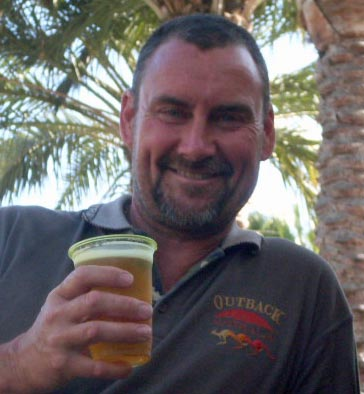
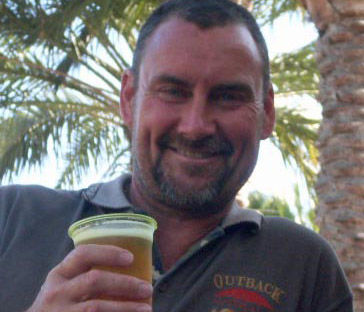
adjust new pages

diff --git a/AM-flask/app/templates/roy_page.html b/AM-flask/app/templates/roy_page.html
@@ -2,10 +2,11 @@
 
 
 <div class="container">
-    <div class="row row-margin">
-        <div class="col-lg-12">
-            <img id="alis" src="../static/img/user/roy/Trevor.jpg" alt="Trevor Photo" class="img-thumbnail">
-        </div>
+    <div class="row row-margin" id="roy">
+
+            <div class="center">
+                <img id="alis" src="../static/img/user/roy/Trevor.jpg" alt="Trevor Photo" class="img-thumbnail img-responsive">
+            </div>
     </div>
 
     <div id="mask"></div>

diff --git a/AM-flask/app/templates/ollio_page.html b/AM-flask/app/templates/ollio_page.html
@@ -2,7 +2,7 @@
 
 
 <div class="container">
-    <div class="row row-margin">
+    <div class="row row-margin" id="ollio">
         <div class="col-lg-6">
             <img id="alis" src="../static/img/user/ollio/Ella.jpg" alt="Ella Photo" class="img-thumbnail">
         </div>

diff --git a/AM-flask/app/static/css/userPage.css b/AM-flask/app/static/css/userPage.css
@@ -3,6 +3,20 @@
     height: 336px;
 }
 
+#roy .img-thumbnail {
+    width: 700px;
+    height: 600px;
+}
+
+#ollio .img-thumbnail {
+    height: 600px;
+}
+
+#roy .center {
+    padding-left: 200px;
+    /* a fake center*/
+}
+
 .row-margin {
     margin: 36px 0;
 }

diff --git a/AM-flask/app/main.py b/AM-flask/app/main.py
@@ -67,12 +67,12 @@ def trish_page():
 
 
 @app.route("/user/roy")
-def trish_page():
+def roy_page():
     return render_template("roy_page.html")
 
 
 @app.route("/user/ollio")
-def trish_page():
+def ollio_page():
     return render_template("ollio_page.html")
 
 
@@ -107,10 +107,11 @@ def page_hidden_warning():
 def send_message():
 
     def send_message_by_list(contacts_list):
-        for number in contacts_list:
-            question = question_selector(db.get_contact_name_and_username_by_number(number))
-            res = send_sms.send_message(number, question)
-            # print("number: " + number + "\n" + question)
+        for num in contacts_list:
+            if num:
+                question = question_selector(db.get_contact_name_and_username_by_number(num))
+                res = send_sms.send_message(number, question)
+                # print("number: " + num + "\n" + question)
 
     def question_selector(contact_name_and_username_tuple):
         contact_name, username = contact_name_and_username_tuple
